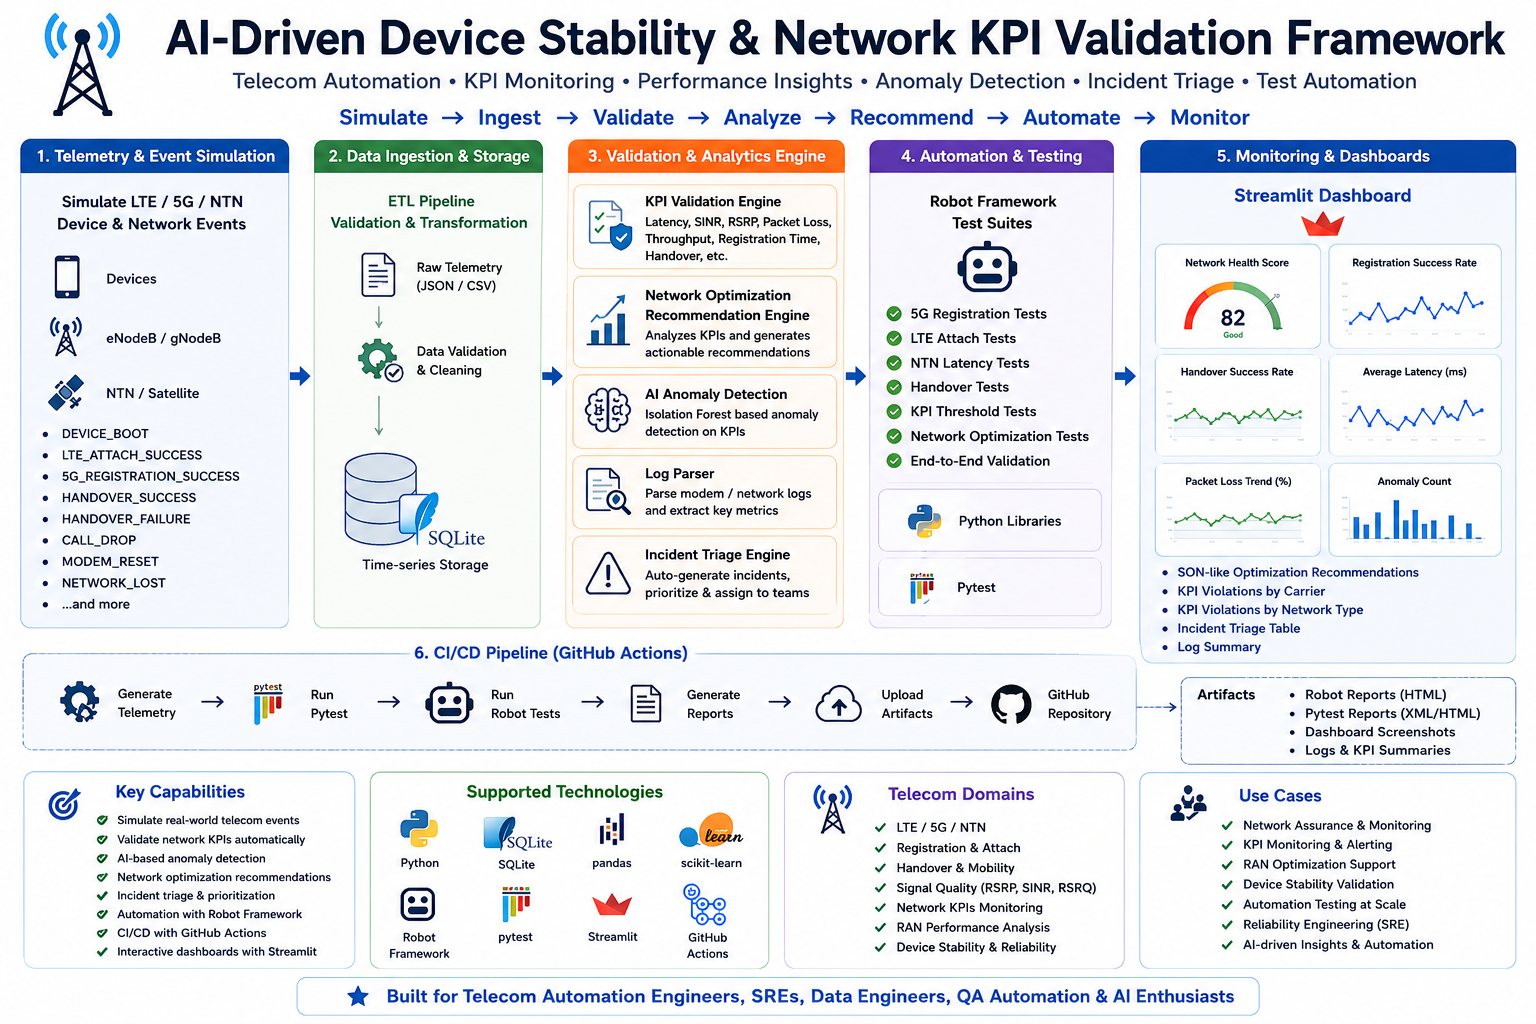
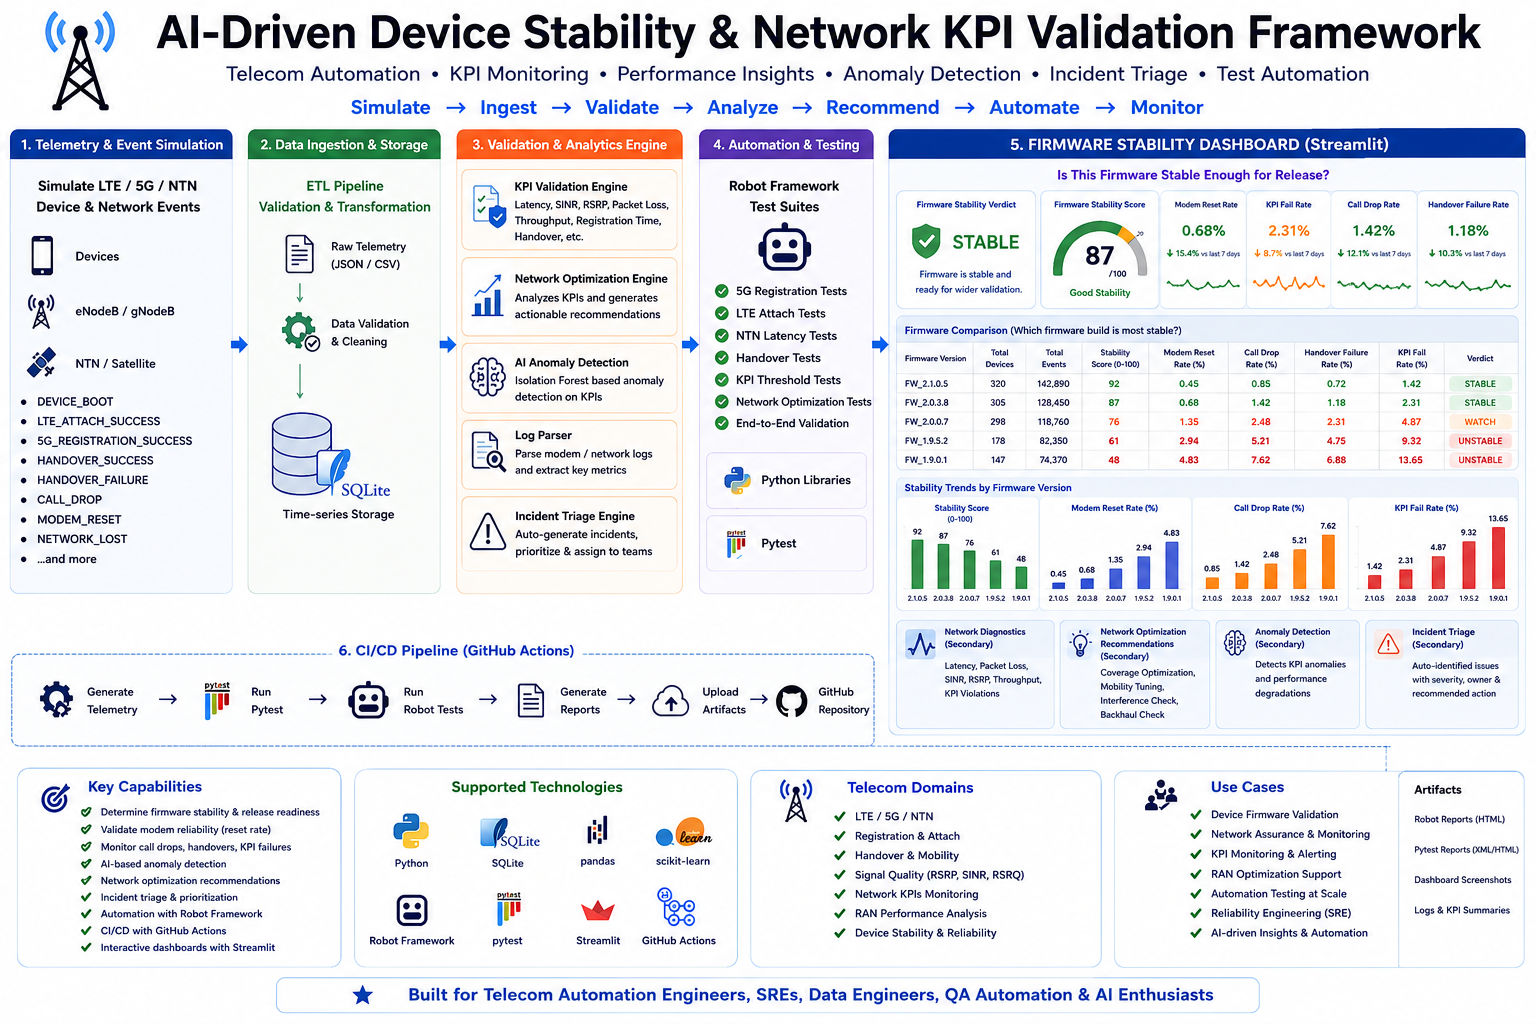
Update firmware stability dashboard image

Changed region(s): [[0.0, 0.0, 1.0, 1.0]]

diff --git a/dashboard/app.py b/dashboard/app.py
@@ -29,13 +29,63 @@ def safe_rate(success_count, total_count):
     return round((success_count / total_count) * 100, 2)
 
 
+def build_firmware_stability_summary(df):
+    """Summarize whether each firmware looks stable from device and network KPIs."""
+    if df.empty:
+        return pd.DataFrame()
+
+    summary = (
+        df.groupby("firmware_version")
+        .agg(
+            total_events=("event_id", "count"),
+            devices_tested=("device_id", "nunique"),
+            kpi_failures=("kpi_status", lambda x: (x == "FAIL").sum()),
+            kpi_warnings=("kpi_status", lambda x: (x == "WARN").sum()),
+            modem_resets=("event_type", lambda x: (x == "MODEM_RESET").sum()),
+            call_drops=("event_type", lambda x: (x == "CALL_DROP").sum()),
+            network_lost=("event_type", lambda x: (x == "NETWORK_LOST").sum()),
+            handover_failures=("event_type", lambda x: (x == "HANDOVER_FAILURE").sum()),
+            avg_latency_ms=("latency_ms", "mean"),
+            avg_packet_loss_pct=("packet_loss_pct", "mean"),
+        )
+        .reset_index()
+    )
+
+    summary["kpi_fail_rate_pct"] = (summary["kpi_failures"] / summary["total_events"] * 100).round(2)
+    summary["modem_reset_rate_pct"] = (summary["modem_resets"] / summary["total_events"] * 100).round(2)
+    summary["call_drop_rate_pct"] = (summary["call_drops"] / summary["total_events"] * 100).round(2)
+    summary["stability_score"] = (
+        100
+        - summary["kpi_fail_rate_pct"] * 1.2
+        - summary["modem_reset_rate_pct"] * 2.0
+        - summary["call_drop_rate_pct"] * 1.5
+        - (summary["handover_failures"] / summary["total_events"] * 100) * 1.2
+    ).clip(lower=0).round(2)
+
+    summary["firmware_verdict"] = "STABLE"
+    summary.loc[
+        (summary["stability_score"] < 85)
+        | (summary["modem_reset_rate_pct"] > 5)
+        | (summary["kpi_fail_rate_pct"] > 10),
+        "firmware_verdict",
+    ] = "NEEDS INVESTIGATION"
+    summary.loc[
+        (summary["stability_score"] < 70)
+        | (summary["modem_reset_rate_pct"] > 15)
+        | (summary["kpi_fail_rate_pct"] > 25),
+        "firmware_verdict",
+    ] = "UNSTABLE"
+
+    return summary.sort_values(by="stability_score", ascending=True)
+
+
 st.set_page_config(
-    page_title="AI-Driven Device Stability & Network KPI Validation",
+    page_title="Device Firmware Stability Dashboard",
     layout="wide",
 )
 
-st.title("AI-Driven Device Stability & Network KPI Validation")
-st.caption("Telecom device telemetry, LTE/5G/NTN KPI validation, SON recommendations, and SRE-style monitoring")
+st.title("Device Firmware Stability Dashboard")
+st.caption("Firmware stability, modem reset behavior, LTE/5G/NTN KPI validation, and network diagnostics")
 
 raw_df, clean_df, rejected_df, summary_df, son_df = load_data()
 
@@ -75,8 +125,62 @@ handover_total = filtered_df["event_type"].isin(["HANDOVER_SUCCESS", "HANDOVER_F
 handover_success_rate = safe_rate((filtered_df["event_type"] == "HANDOVER_SUCCESS").sum(), handover_total)
 avg_latency = round(filtered_df["latency_ms"].mean(), 2) if not filtered_df.empty else 0
 weak_signal_count = int(((filtered_df["rsrp"] < -110) | (filtered_df["sinr"] < 10)).sum())
+firmware_summary = build_firmware_stability_summary(filtered_df)
 
-st.header("Network Health")
+st.header("Firmware Stability Decision")
+
+if firmware_summary.empty:
+    st.warning("No records match the selected filters.")
+else:
+    worst_firmware = firmware_summary.iloc[0]
+    stable_count = int((firmware_summary["firmware_verdict"] == "STABLE").sum())
+    investigation_count = int((firmware_summary["firmware_verdict"] == "NEEDS INVESTIGATION").sum())
+    unstable_count = int((firmware_summary["firmware_verdict"] == "UNSTABLE").sum())
+
+    c1, c2, c3, c4, c5 = st.columns(5)
+    c1.metric("Worst Firmware", worst_firmware["firmware_version"])
+    c2.metric("Worst Stability Score", worst_firmware["stability_score"])
+    c3.metric("Stable Builds", stable_count)
+    c4.metric("Needs Investigation", investigation_count)
+    c5.metric("Unstable Builds", unstable_count)
+
+    st.subheader("Firmware Stability Summary")
+    st.dataframe(
+        firmware_summary[
+            [
+                "firmware_version",
+                "firmware_verdict",
+                "stability_score",
+                "total_events",
+                "devices_tested",
+                "kpi_fail_rate_pct",
+                "modem_reset_rate_pct",
+                "call_drop_rate_pct",
+                "modem_resets",
+                "call_drops",
+                "network_lost",
+                "handover_failures",
+                "avg_latency_ms",
+                "avg_packet_loss_pct",
+            ]
+        ],
+        use_container_width=True,
+    )
+
+    st.subheader("Firmware Stability Score")
+    st.bar_chart(
+        firmware_summary.sort_values(by="stability_score", ascending=False),
+        x="firmware_version",
+        y="stability_score",
+    )
+
+    st.subheader("Modem Resets by Firmware")
+    st.bar_chart(firmware_summary, x="firmware_version", y="modem_resets")
+
+    st.subheader("KPI Fail Rate by Firmware")
+    st.bar_chart(firmware_summary, x="firmware_version", y="kpi_fail_rate_pct")
+
+st.header("Network Health Diagnostics")
 
 col1, col2, col3, col4, col5 = st.columns(5)
 col1.metric("Network Health Score", network_health_score)

diff --git a/src/generate_data.py b/src/generate_data.py
@@ -182,6 +182,16 @@ def generate_telemetry(devices_df, scenario, records):
         event_type = choose_event_type(scenario)
         carrier = random.choice(CARRIERS)
         network_type = random.choice(NETWORK_TYPES)
+        firmware_version = random.choice(FIRMWARE_VERSIONS)
+
+        if scenario == "stable":
+            firmware_version = "S24_U1_6.1"
+        elif scenario == "modem_resets":
+            firmware_version = random.choices(
+                population=["S24_U2_6.1", "S24_U1_6.1", "S23_U5_6.0"],
+                weights=[70, 15, 15],
+                k=1,
+            )[0]
 
         if event_type == "LTE_ATTACH_SUCCESS":
             network_type = "LTE"
@@ -227,7 +237,7 @@ def generate_telemetry(devices_df, scenario, records):
                 "test_session_id": f"TS-{random.randint(1000, 1100)}",
                 "event_timestamp": timestamp,
                 "event_type": event_type,
-                "firmware_version": random.choice(FIRMWARE_VERSIONS),
+                "firmware_version": firmware_version,
                 "carrier": carrier,
                 "network_type": network_type,
                 "cell_id": random.choice(CELL_IDS),

diff --git a/README.md b/README.md
@@ -2,7 +2,7 @@
 
 Demo framework for telecom device telemetry, LTE/5G/NTN event simulation, KPI validation, SON recommendations, modem log parsing, dashboard reporting, and CI/CD automation.
 
-![Telecom KPI Dashboard](image.png)
+![Device Firmware Stability Dashboard](image.png)
 
 The project stays local and beginner-friendly: Python, pandas, SQLite, pytest, Robot Framework, and Streamlit. It does not require cloud services or Docker.
 